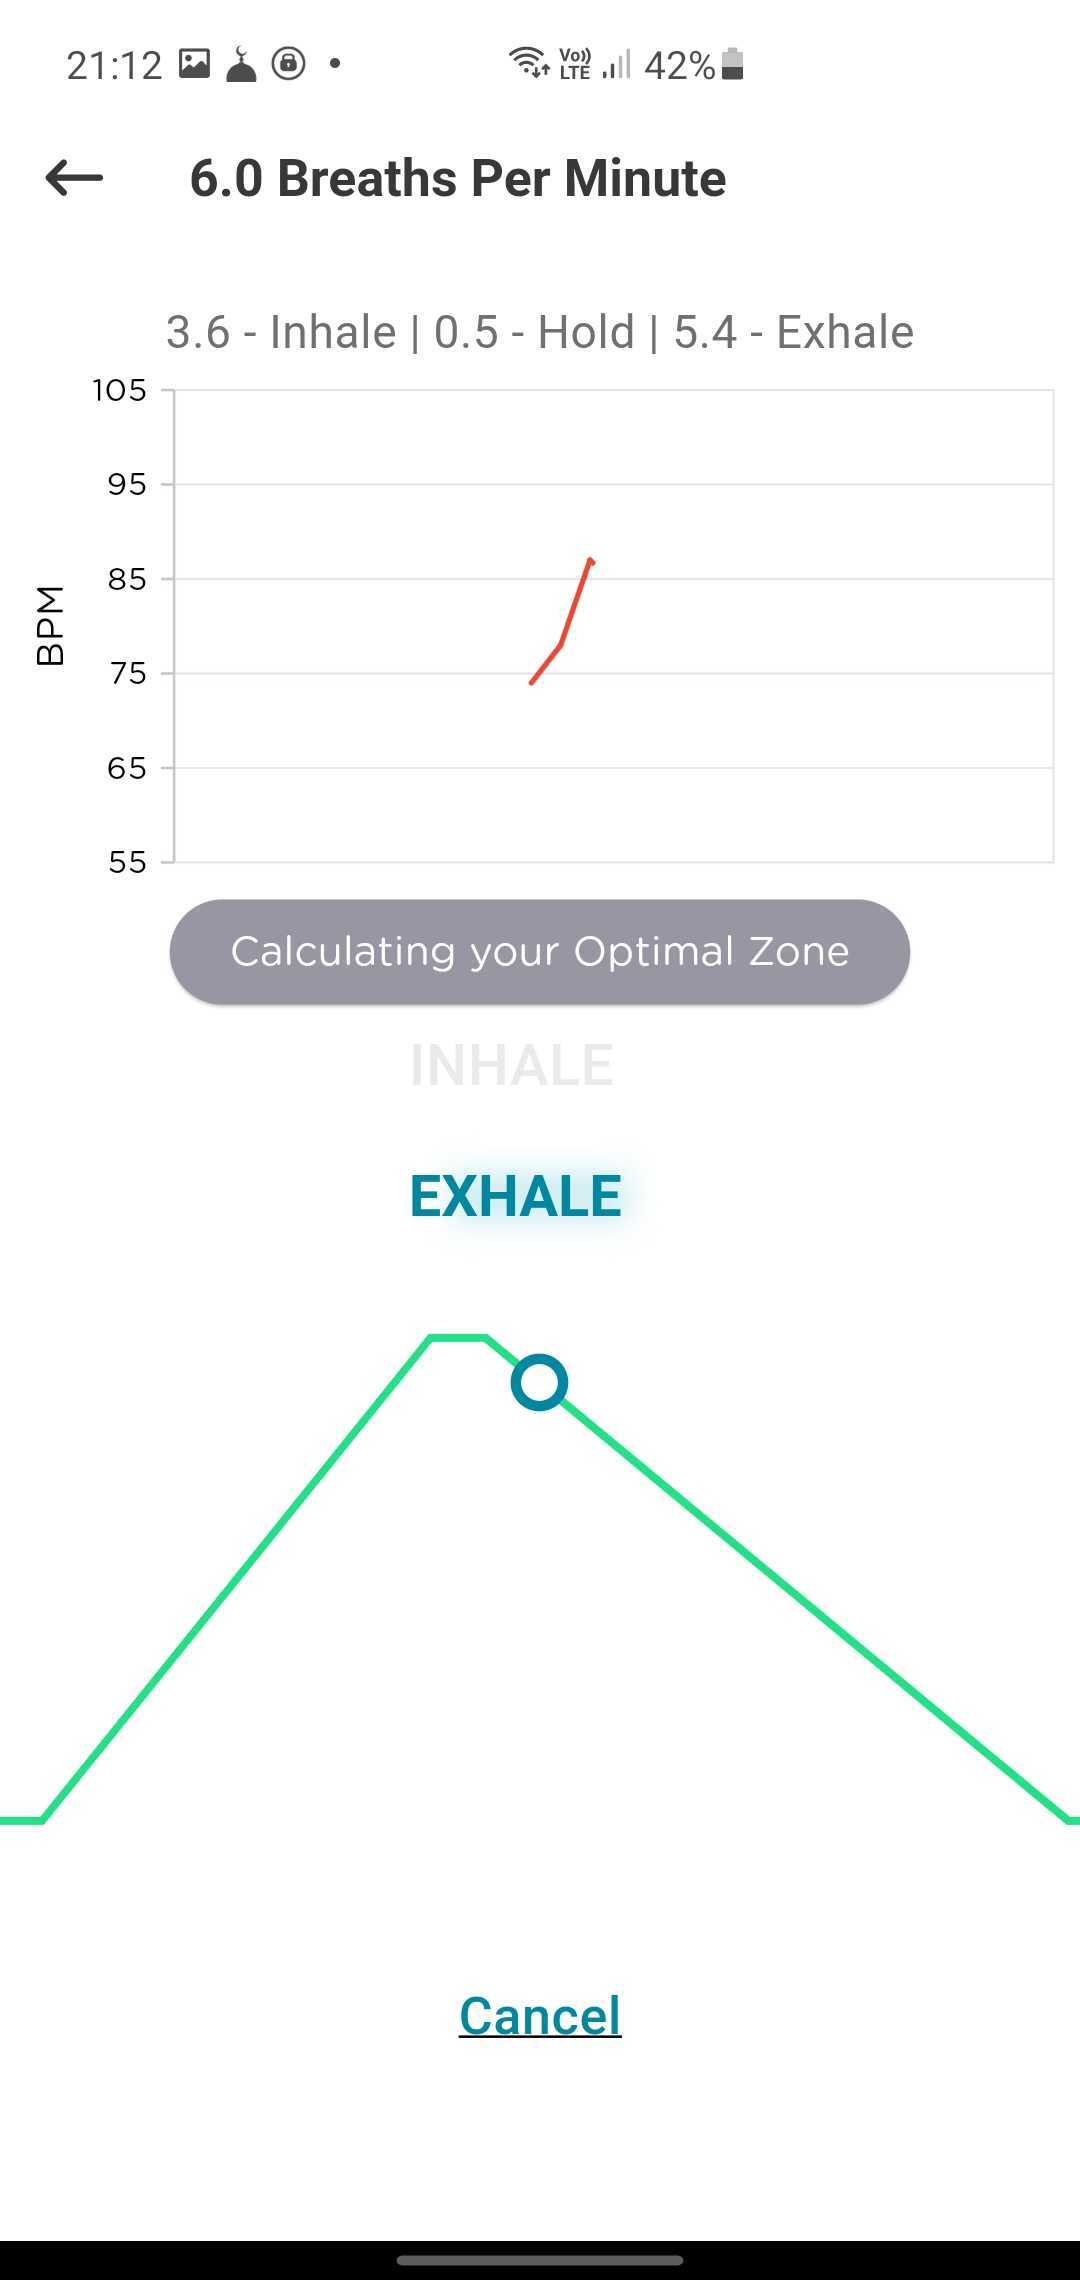
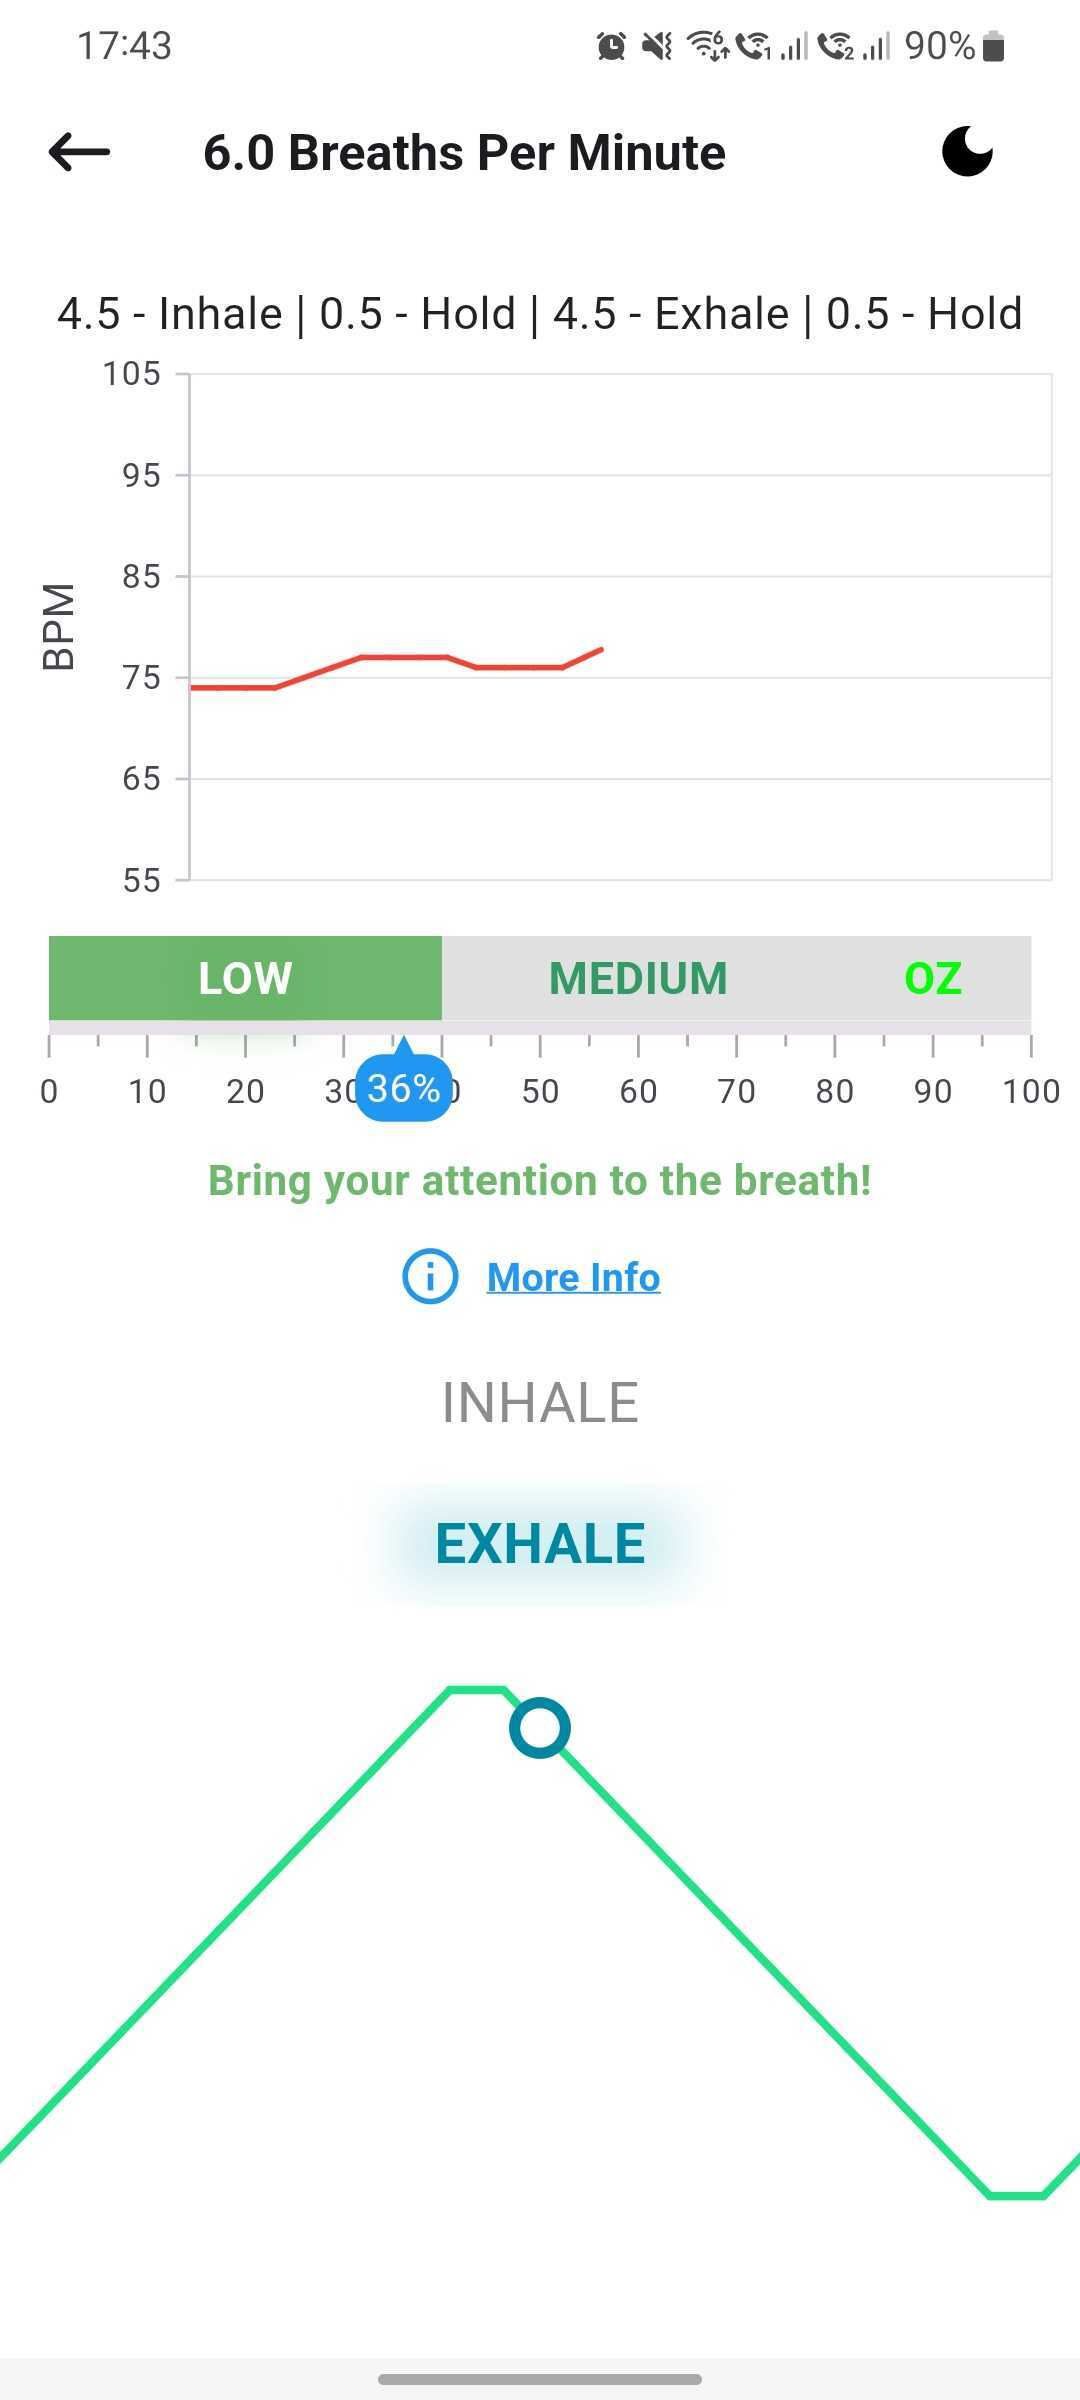
dos updated for child RF, breathing settings, and create account

diff --git a/docs/mobile-app.md b/docs/mobile-app.md
@@ -1,4 +1,4 @@
-# Using the Optimal HRV app
+u# Using the Optimal HRV app
 
 Working with the [Optimal HRV Reader](https://www.optimalhrv.com/devices), our app provides a way to quantitatively measure Heart Rate Variability for yourself, for your employees, or for those you are caring for, as well as enhancing recovery with our in-app biofeedback training modules.
 
@@ -71,12 +71,15 @@ If you're experiencing connection issues, please follow these steps to troublesh
 
 - <u>Login</u>: To log in, you can use your Apple ID/Google Account or the username and password provided through your organization, professional, or Optimal team. This could be in the form of an email address or a username.
 
+- <u>Create an Account</u>: If you don’t have an account yet, you can sign up using your email and password by simply clicking on "Create Account".
+
 - Unless you got different instructions from the Optimal Team or a professional you are working with, please leave the “Organization” login information blank.
 
 - <u>Welcome Menu</u>: Here, you will see all the functionality of the Optimal HRV App. Next, we will explore what you will find on each menu item.
 
 <div align=center>
-<img height="375" src="./images/mobile-app/mobile_login.jpg" style="margin-right: 30px;"/>
+<img height="375" src="./images/mobile-app/mobile_login.png" style="margin-right: 30px;"/>
+<img height="375" src="./images/mobile-app/mobile_signUp.png" style="margin-right: 30px;"/>
 <img height="375" src="./images/mobile-app/mobile_home.png"/>
 </div>
 
@@ -139,12 +142,13 @@ If you're experiencing connection issues, please follow these steps to troublesh
 
 - <u>Biofeedback & Mindfulness Page</u>: This page contains four crucial activities to improve the health of your nervous system. Inside "History" section click on "Your last biofeedback training rate" to review your past training sessions.
 
-  - <u>Resonance Frequency (RF) Assessment</u>: The assessment will guide you through seven 2-minute breathing exercises to determine your resonance frequency breathing rate. Your RF breathing rate is the breathing rate that will optimize your breathing, mindfulness, and self-compassion training. Note: your breathing rate does not change after the age of 13. No rate is better than another, it is YOUR best rate, so you only need to take the assessment once.
+  - <u>Resonance Frequency (RF) Assessment</u>: Select your age group to get the most suitable assessment. The assessment will guide you through multiple 2-minute breathing exercises to determine your resonance frequency breathing rate. Your RF breathing rate is the breathing rate that will optimize your breathing, mindfulness, and self-compassion training. Note: your breathing rate does not change after the age of 13. No rate is better than another, it is YOUR best rate, so you only need to take the assessment once.
 
 <div align=center>
-<img height="375" src="./images/mobile-app/mobile_BF.png" style="margin-right: 30px;"/>
 <img height="375" src="./images/mobile-app/RF_assessment.png" style="margin-right: 30px;"/>
-<img height="375" src="./images/mobile-app/mobile_RF.jpg"/>
+<img height="375" src="./images/mobile-app/RF_select_age.png" style="margin-right: 30px;"/>
+<img height="375" src="./images/mobile-app/RF_continue.png" style="margin-right: 30px;"/>
+<img height="375" src="./images/mobile-app/RF_readings_list.png"/>
 </div>
 
 - <u>Biofeedback Training</u>: This page allows you to train your HRV at your RF breathing rate. During the biofeedback training, you can choose to “Track HRV” or “Show pacer only.” “Show pacer only” provides you with a pacer to practice your RF breathing rate with a pacer. “Track HRV” will provide you with an EKG during the training and HRV data at its conclusion.
@@ -153,7 +157,10 @@ If you're experiencing connection issues, please follow these steps to troublesh
 <img height="375" src="./images/mobile-app/mobile_BFT.jpg"/>
 </div>
 
-- <u>Optimal Zone</u>: At the start of your training session, you will see **Calculating your Optimal Zone** for the first minute. Thereafter, you will see **You're in Optimal Zone** if you consistently follow the pacer. Otherwise, the message will be **Focus on your breathing**.
+- <u>Optimal Zone</u>: At the start of your training session, you will see **Calculating your Optimal Zone** for the first minute. Thereafter, you will see **Optimal Zone Gauge**.
+  - **Low (0-40)**: Focus on following the pacer closely.
+  - **Medium (41-80)**: Keep it up, you're close to optimal.
+  - **OZ (81-100)**: You've reached the optimal zone.
 
 <div align=center>
 <img height="375" src="./images/mobile-app/mobile_OZ1.jpg" style="margin-right: 30px;"/>
@@ -193,16 +200,17 @@ If you're experiencing connection issues, please follow these steps to troublesh
 
 - <u>Session Settings</u>: The **Session Settings** page allows you to customize and tailor your biofeedback and mindfulness sessions for a more personalized experience. Here are the options you can adjust:
 
-  - <u>Breaths Per Minute</u>: Adjust your target breathing rate to match your resonance frequency (RF) or preferred pace.
-  - <u>Inhale/Exhale Ratio</u>: Customize the inhale and exhale ratio for your breathing practice to ensure it aligns with your comfort and training goals.
-  - <u>Show Oz Messages</u>: This option allows you to toggle the visibility of **Optimal Zone (Oz) Messages** during your session. Oz Messages provide real-time feedback on how well you are following the pacer and staying within your optimal zone.
-  - <u>Sound & Vibration Cues</u>: Adjust sound and vibration feedback to help you stay in rhythm during your practice without needing to look at the screen.
+  - **Biofeedback Session Length**: Set the duration of your biofeedback session to match your training preferences, whether it's a short focus session or a longer practice.
+  - **Show Oz Meter**: Enable or disable the **Optimal Zone Meter**, which visually tracks your progress in real-time, helping you stay aware of your current zone.
+  - **Show Suggestions**: Activate or deactivate real-time guidance suggestions to help you optimize your breathing and stay within the desired zone.
+  - **Sound & Vibration Cues**: Adjust sound and vibration feedback to help you stay in rhythm during your practice without needing to look at the screen.
+  - **Breathing Settings**: Fine-tune additional breathing parameters such as inhale hold, exhale hold, and pacing to customize your practice experience.
 
   With these settings, you can create a session that fits your needs, making your biofeedback or mindfulness training as effective and enjoyable as possible.
 
 <div align=center>
 <img height="375" src="./images/mobile-app/BF_session_settings.png" style="margin-right: 30px;"/>
-<img height="375" src="./images/mobile-app/session_settings.jpg"/>
+<img height="375" src="./images/mobile-app/session_settings.png"/>
 </div>
 
 ### Reading Settings
@@ -210,7 +218,7 @@ If you're experiencing connection issues, please follow these steps to troublesh
 The **Reading Settings** screen allows you to customize your app experience by offering a variety of options and configurations. It is divided into two main sections for navigation, along with additional options for personalizing your display and session behavior:
 
 <div align=center>
-<img height="375" src="./images/mobile-app/reading_settings.jpg"/>
+<img height="375" src="./images/mobile-app/reading_settings.png"/>
 </div>
 
 ---
@@ -226,16 +234,31 @@ The **Reading Settings** screen allows you to customize your app experience by o
 <img height="375" src="./images/mobile-app/HRV_reading_settings.jpg"/>
 </div>
 
+### **Breathing Settings**
+
+Fine-tune your breathing parameters to optimize your training:
+
+- **Inhale/Exhale Percentage**: Adjust the inhale and exhale duration as a percentage of your breathing cycle to find a balance that works best for you.
+- **Inhale Hold & Exhale Hold**: Set optional hold durations after inhalation and exhalation to deepen your practice and improve breath control.
+- **BPM Selection**: Choose your target **Breaths Per Minute (BPM)** based on your personal preference or resonance frequency.
+- **Default Breathing Rates**: Your default breathing rates are auto-adjusted based on your age group. However, you can manually modify the list of breathing rates to better suit your needs.
+
+<div align=center>
+<img height="375" src="./images/mobile-app/breathing_settings.png"/>
+<img height="375" src="./images/mobile-app/breathing_settings_age_group.png"/>
+</div>
+
 - **Biofeedback & Mindfulness Session Settings**: This section enables you to customize and personalize your biofeedback and mindfulness sessions to enhance your practice. Here are the adjustable options:
 
-  - **Breaths Per Minute**: Set your target breathing rate to align with your resonance frequency (RF) or any preferred breathing pace you are comfortable with.
-  - **Inhale/Exhale Ratio**: Adjust the ratio between inhaling and exhaling during your sessions to ensure it fits your breathing style and training objectives.
-  - **Show Oz Messages**: Toggle the display of **Optimal Zone (Oz) Messages**, which provide real-time feedback on how well you are following the pacer and staying within your optimal HRV zone. These messages guide you by indicating when you are in sync with the pacer or need to focus more on your breathing.
-  - **Sound & Vibration Cues**: Control the sound and vibration feedback during your sessions. These cues help you stay on track with your breathing without constantly watching the screen, enhancing the overall effectiveness of your practice.
+  - **Biofeedback Session Length**: Set the duration of your biofeedback session to match your training preferences, whether it's a short focus session or a longer practice.
+  - **Show Oz Meter**: Enable or disable the **Optimal Zone Meter**, which visually tracks your progress in real-time, helping you stay aware of your current zone.
+  - **Show Suggestions**: Activate or deactivate real-time guidance suggestions to help you optimize your breathing and stay within the desired zone.
+  - **Sound & Vibration Cues**: Adjust sound and vibration feedback to help you stay in rhythm during your practice without needing to look at the screen.
+  - **Breathing Settings**: Fine-tune additional breathing parameters such as inhale hold, exhale hold, and pacing to customize your practice experience.
   - **Pacer Sound**: Customize the sounds for both inhalation and exhalation. You can choose from a list of 19 different sounds that suit your preferences, helping you stay aligned with the pacer and making your sessions more enjoyable.
 
 <div align=center>
-<img height="375" src="./images/mobile-app/session_settings.jpg" style="margin-right: 30px;"/>
+<img height="375" src="./images/mobile-app/session_settings.png" style="margin-right: 30px;"/>
 <img height="375" src="./images/mobile-app/sounds_&_vibration.jpg" style="margin-right: 30px;"/>
 <img height="375" src="./images/mobile-app/sounds_list.jpg"/>
 </div>
